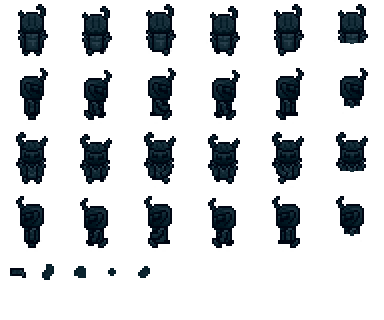
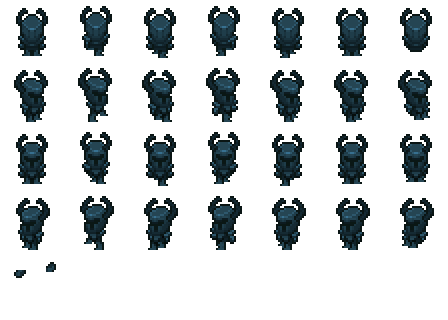
Updated

diff --git a/src/main/java/soulchasm/main/Mobs/Agressive/meleestatue.java b/src/main/java/soulchasm/main/Mobs/Agressive/meleestatue.java
@@ -1,8 +1,6 @@
 package soulchasm.main.Mobs.Agressive;
 
 import necesse.engine.gameLoop.tickManager.TickManager;
-import necesse.engine.network.PacketReader;
-import necesse.engine.network.PacketWriter;
 import necesse.engine.sound.SoundEffect;
 import necesse.engine.sound.SoundManager;
 import necesse.engine.util.GameRandom;
@@ -30,8 +28,6 @@ import java.util.List;
 public class meleestatue extends HostileMob {
     public static LootTable lootTable = new LootTable();
     public static GameTexture texture;
-    public static GameTexture glowtexture;
-    private boolean showGlowEyes;
 
     public meleestatue() {
         super(500);
@@ -48,7 +44,6 @@ public class meleestatue extends HostileMob {
         super.init();
         this.ai = new BehaviourTreeAI<>(this, new EmptyAINode<meleestatue>() {});
         this.isHostile = false;
-        showGlowEyes = false;
     }
 
     protected void changeAI() {
@@ -67,16 +62,6 @@ public class meleestatue extends HostileMob {
         return lootTable;
     }
 
-    public void setupMovementPacket(PacketWriter writer) {
-        super.setupMovementPacket(writer);
-        writer.putNextBoolean(this.showGlowEyes);
-    }
-
-    public void applyMovementPacket(PacketReader reader, boolean isDirect) {
-        super.applyMovementPacket(reader, isDirect);
-        this.showGlowEyes = reader.getNextBoolean();
-    }
-
     public MobWasHitEvent isHit(MobWasHitEvent event, Attacker attacker) {
         if(!event.wasPrevented && attacker != null){
             changeAI();
@@ -92,7 +77,6 @@ public class meleestatue extends HostileMob {
 
     public void serverTick() {
         super.serverTick();
-        showGlowEyes = ai.blackboard.mover.hasMobTarget();
         if(!this.isInCombat() && !ai.blackboard.mover.hasMobTarget()){
             this.ai = new BehaviourTreeAI<>(this, new EmptyAINode<meleestatue>() {});
         }
@@ -112,11 +96,9 @@ public class meleestatue extends HostileMob {
         drawY += this.getBobbing(x, y);
         drawY += this.getLevel().getTile(this.getTileX(), this.getTileY()).getMobSinkingAmount(this);
         DrawOptions drawOptions = texture.initDraw().sprite(sprite.x, sprite.y, 64).light(light).pos(drawX, drawY);
-        DrawOptions glow = glowtexture.initDraw().sprite(sprite.x, sprite.y, 64).light(light.minLevelCopy(100)).pos(drawX, drawY).alpha(this.showGlowEyes?1:0);
         list.add(new MobDrawable() {
             public void draw(TickManager tickManager) {
                 drawOptions.draw();
-                glow.draw();
             }
         });
         this.addShadowDrawables(tileList, x, y, light, camera);

diff --git a/src/main/java/soulchasm/main/Objects/OtherObjects/soulmonumentobject.java b/src/main/java/soulchasm/main/Objects/OtherObjects/soulmonumentobject.java
@@ -103,7 +103,7 @@ public class soulmonumentobject extends FurnitureObject {
                 this.particleDelay = 0;
                 int posX = x * 32 + 16;
                 int posY = y * 32 + 16;
-                level.entityManager.addParticle((float)posX, (float)(posY), Particle.GType.COSMETIC).sprite(SoulChasm.particleMonumentRingSection).fadesAlphaTimeToCustomAlpha(100, 400, 0.4F).size((options, lifeTime, timeAlive, lifePercent) -> {
+                level.entityManager.addParticle((float)posX, (float)(posY), Particle.GType.COSMETIC).sprite(SoulChasm.particleMonumentRingSection).fadesAlphaTimeToCustomAlpha(100, 400, 0.2F).size((options, lifeTime, timeAlive, lifePercent) -> {
                 }).height(30.0F).heightMoves(30, 50).dontRotate().modify((options, lifeTime, timeAlive, lifePercent) -> {
                     options.size(30);
                 }).lifeTime(800);

diff --git a/src/main/java/soulchasm/SoulChasm.java b/src/main/java/soulchasm/SoulChasm.java
@@ -339,7 +339,6 @@ public class SoulChasm {
         carmob.texture =  GameTexture.fromFile("mobs/car");
         carmob.texture_top = GameTexture.fromFile("mobs/car_top_mask");
         meleestatue.texture = GameTexture.fromFile("mobs/meleestatue");
-        meleestatue.glowtexture = GameTexture.fromFile("mobs/possesedstatue_glow");
         wisp.texture = GameTexture.fromFile("mobs/wisp");
         firefly.texture = GameTexture.fromFile("mobs/firefly");
         magestatue.texture = GameTexture.fromFile("mobs/magestatue");
